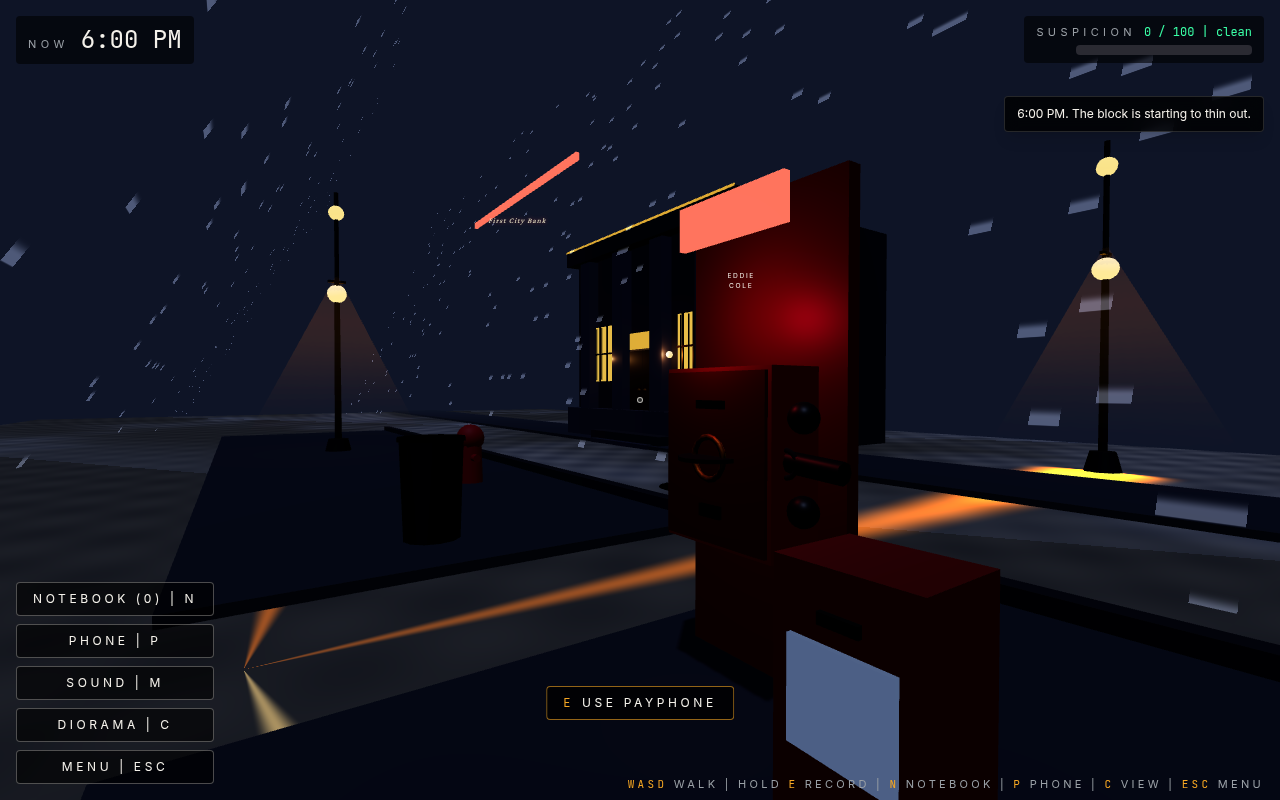
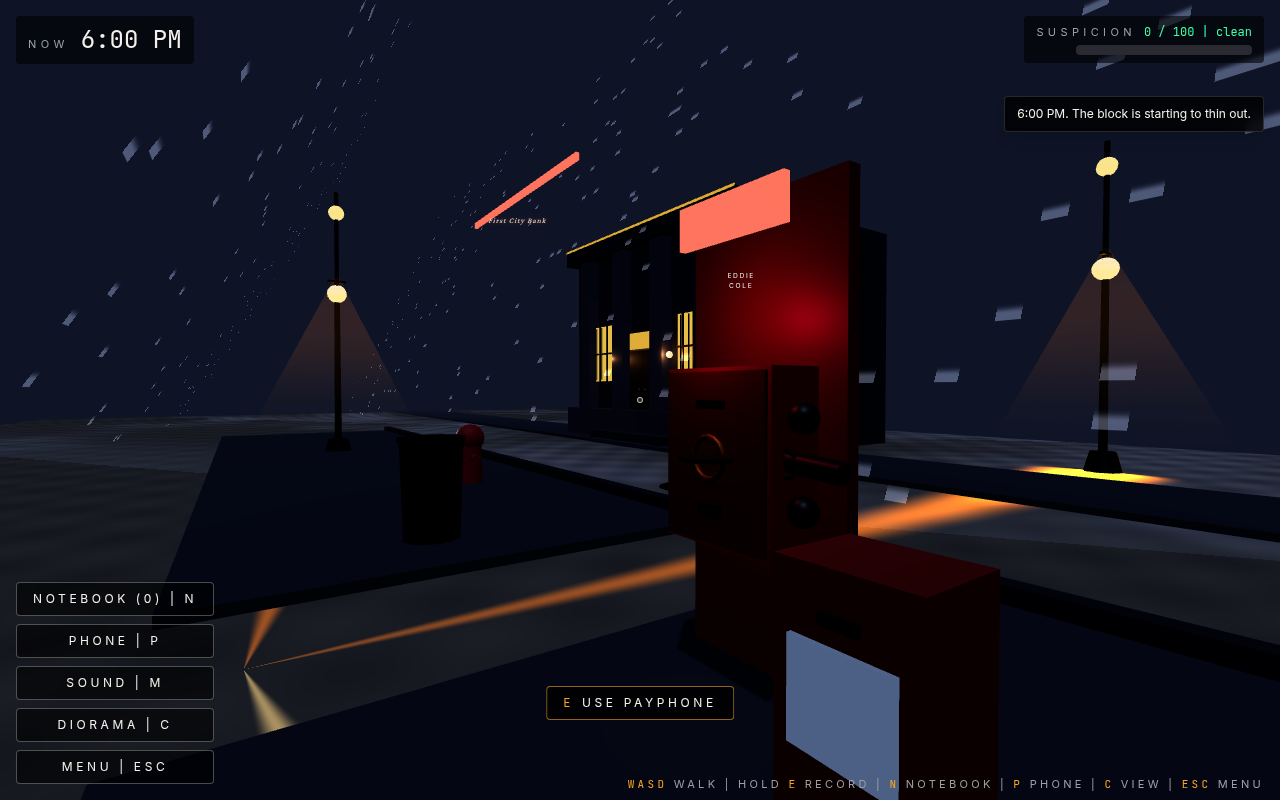
Cleanup pass from beta verdicts: cafe warmth, apartments rim, restartRun toast
- restartRun toast scrubbed of the spoiler 'Objective: ...' string.
- Secretary phone placeholder de-pointed.
- Cafe back-bar wash + strong cool window moonlight + cool rim.
- Cafe checker contrast softened.
- Apartment block exterior lifted out of pure black, added amber
  roofline rim + cool sodium-lamp fill.

https://claude.ai/code/session_01FSvaywtgfg4DiBimCB83Xs

diff --git a/src/components/scenes/CafeScene.tsx b/src/components/scenes/CafeScene.tsx
@@ -39,15 +39,18 @@ export default function CafeScene() {
 
   return (
     <group>
-      <ambientLight intensity={0.85} color="#f5d6a0" />
-      <hemisphereLight args={["#5a6b8c", "#3a2818", 0.35]} />
+      <ambientLight intensity={0.95} color="#f5d6a0" />
+      <hemisphereLight args={["#5a6b8c", "#3a2818", 0.45]} />
       <pointLight position={[-3, 3.4, -1]} intensity={2.1} color="#ffb968" distance={9} />
       <pointLight position={[3, 3.4, -1]} intensity={2.1} color="#ffb968" distance={9} />
       <pointLight position={[0, 3.0, 2]} intensity={1.25} color="#ffd9a0" distance={7} />
       {/* Back-bar wall wash — brightened so the espresso machine reads */}
-      <pointLight position={[0, 2.0, -3.0]} intensity={2.0} color="#ffb060" distance={6} />
-      {/* Cool window-side moonlight for counter-tone */}
-      <pointLight position={[-5, 2.8, 4]} intensity={0.6} color="#aac6ff" distance={6} />
+      <pointLight position={[0, 2.0, -3.0]} intensity={2.6} color="#ffb060" distance={7} />
+      {/* Cool window-side moonlight — strong counter-tone now (0.6 → 1.6) */}
+      <pointLight position={[5, 2.8, 4]} intensity={1.6} color="#aac6ff" distance={7} />
+      <pointLight position={[-5, 2.8, 4]} intensity={1.4} color="#aac6ff" distance={6} />
+      {/* Right-side cold rim hitting the back wall to break up the warm wash */}
+      <pointLight position={[6, 1.8, -3]} intensity={0.85} color="#7aa6cc" distance={5} />
 
       {/* Checker tile floor */}
       <CheckerFloor

diff --git a/src/components/props/ApartmentBlock.tsx b/src/components/props/ApartmentBlock.tsx
@@ -11,17 +11,27 @@ interface Props {
 export default function ApartmentBlock({ position }: Props) {
   return (
     <group position={position}>
-      {/* Body — taller than the others; front face at local z=0 */}
+      {/* Body — taller than the others; front face at local z=0.
+          Warm-tinted dark brown so the silhouette doesn't crush to black against
+          the dusk sky. */}
       <mesh position={[0, 4.0, -3]} castShadow receiveShadow>
         <boxGeometry args={[6.0, 8.0, 6]} />
-        <meshStandardMaterial color="#1a1a24" roughness={0.9} />
+        <meshStandardMaterial color="#2a2230" roughness={0.9} />
       </mesh>
 
       {/* Brick stripe at base */}
       <mesh position={[0, 0.6, 0.06]} receiveShadow>
         <boxGeometry args={[6.2, 1.2, 0.4]} />
-        <meshStandardMaterial color="#3a1818" roughness={0.95} />
+        <meshStandardMaterial color="#4a2218" roughness={0.95} />
       </mesh>
+
+      {/* Roofline rim light — narrow warm strip so the building reads against sky */}
+      <mesh position={[0, 8.05, 0.05]}>
+        <boxGeometry args={[6.05, 0.05, 0.05]} />
+        <meshStandardMaterial color="#0a0a10" emissive="#f5a623" emissiveIntensity={0.45} />
+      </mesh>
+      {/* Sodium-lamp point light on the building face for environmental fill */}
+      <pointLight position={[0, 5, 1.5]} intensity={0.5} color="#7aa6cc" distance={5} />
 
       {/* Lit window grid: 3 cols × 4 rows */}
       {[0, 1, 2].map((cx) =>

diff --git a/src/components/game/PhoneUI.tsx b/src/components/game/PhoneUI.tsx
@@ -16,7 +16,7 @@ function phonePlaceholder(caller: NpcId | null, target: NpcId): string {
   if (caller === "wife" && target === "bankManager")
     return "What does Margaret only say when she's actually scared?";
   if (caller === "secretary" && target === "bankManager")
-    return "Lillian sighs that Harold always loses things. What did she leave where?";
+    return "Lillian sighs that Harold always loses things.";
   if (caller === "bankManager" && target === "secretary")
     return "Lillian only obeys ordinary requests in his voice.";
   if (caller === "bankManager" && target === "wife")

diff --git a/src/game/store.ts b/src/game/store.ts
@@ -323,8 +323,8 @@ export const useGame = create<GameState & GameActions>()(
         toasts: [
           {
             id: `${Date.now()}_objective`,
-            text: "Objective: check the notebook, steal a calm manager voice, open the vault.",
-            expiresAt: Date.now() + 7000,
+            text: "Run it again. The block resets. The clock doesn't.",
+            expiresAt: Date.now() + 5000,
           },
         ],
       })),

diff --git a/src/components/props/CheckerFloor.tsx b/src/components/props/CheckerFloor.tsx
@@ -25,8 +25,8 @@ const FRAG = /* glsl */ `
     vec2 uv = vWorldPos.xz;
     vec2 cell = floor(uv * 1.6);
     float check = mod(cell.x + cell.y, 2.0);
-    vec3 black = vec3(0.16, 0.12, 0.08);
-    vec3 cream = vec3(0.82, 0.74, 0.58);
+    vec3 black = vec3(0.24, 0.18, 0.12);
+    vec3 cream = vec3(0.74, 0.66, 0.52);
     vec3 base = mix(black, cream, check);
     // Slight grime in cracks
     vec2 cellUv = fract(uv * 1.6);
